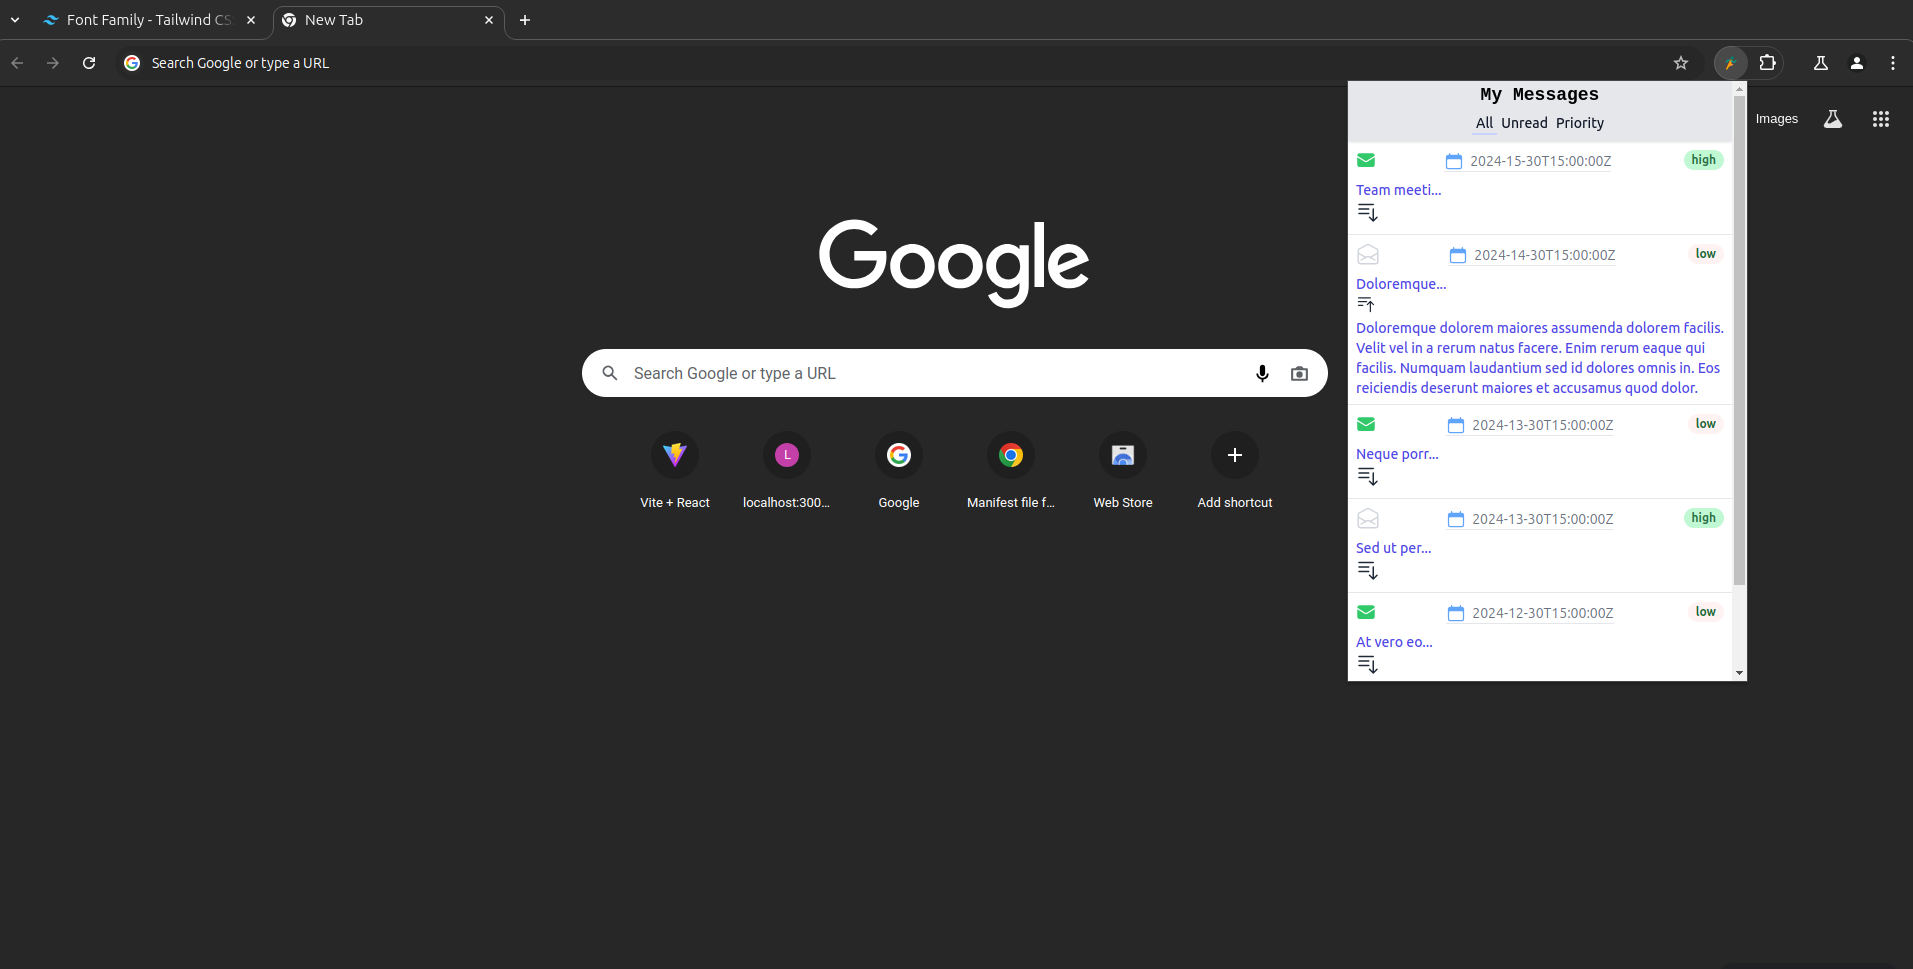
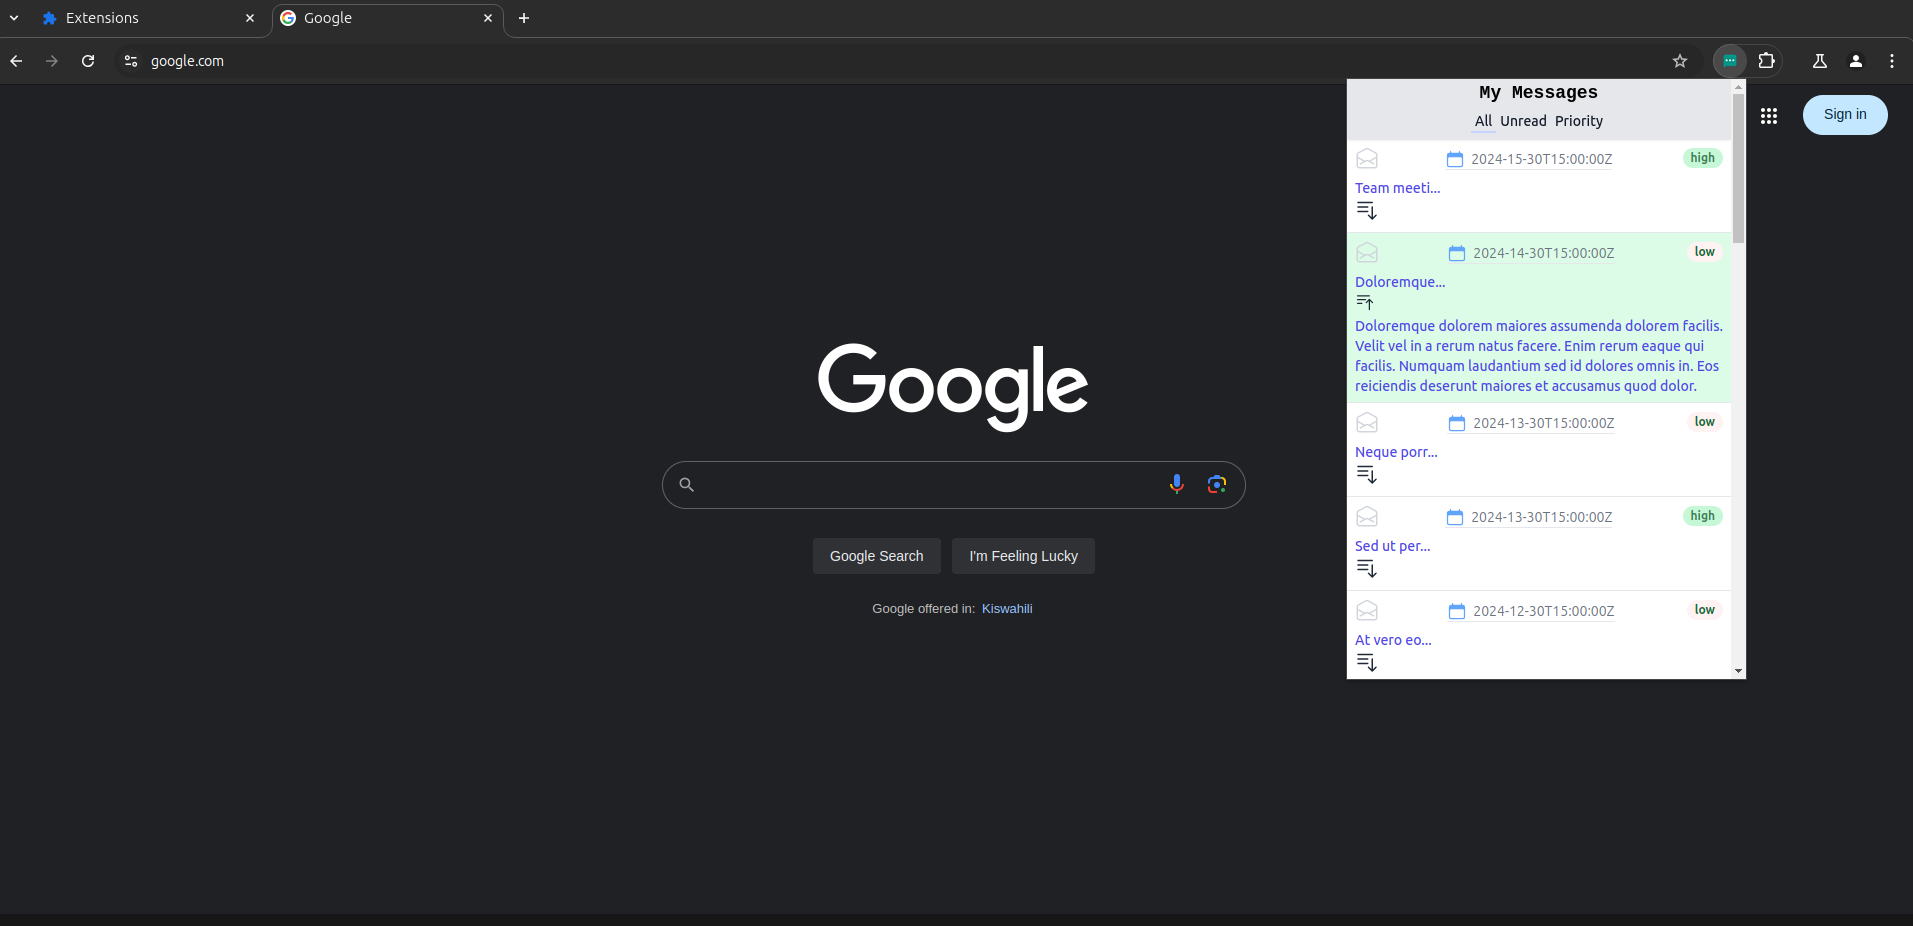
update readme screenshots with functionality

diff --git a/src/App.jsx b/src/App.jsx
@@ -6,6 +6,11 @@ import Navbar from './components/Navbar'
 import { messageReducer } from './utils/Reducer';
 import Loading from './components/Loading';
 
+let apiData 
+chrome.storage.local.get("apiData", (result) => {
+  apiData = (result.apiData);  // Chrome storage data
+}); 
+
 function App() {
   chrome.action.setBadgeText({ text: '' });
   const [messageState, messageDispatch] = useReducer(messageReducer, {
@@ -17,7 +22,7 @@ function App() {
       <div className='max-w-sm min-w-96'>
         <Navbar messageDispatch={messageDispatch} messageState={messageState} />
         <Suspense fallback={<Loading />}>
-          <List messageState={messageState} />
+          <List messageState={messageState} apiData={apiData} />
         </Suspense>
       </div>  
     </>

diff --git a/src/components/List.jsx b/src/components/List.jsx
@@ -2,8 +2,9 @@ import { memo, useState, useEffect, useMemo } from 'react'
 import Error from './Error'
 import Message from './Message'
 
-const List = memo(function List({messageState}) {
-  const [messages, setMessages] = useState([])
+
+const List = memo(function List({apiData,messageState}) {
+  const [messages, setMessages] = useState(apiData)
   const [errors, setErrors] = useState([])
 
   useEffect(() => {

diff --git a/src/components/Message.jsx b/src/components/Message.jsx
@@ -18,7 +18,7 @@ const Message = memo(function Message({message,onUpdateMessage}) {
         {({ open }) => (
           <>
           <dt>
-            <div className="block hover:bg-gray-50">
+            <div className="block hover:bg-green-100">
               <div className="px-2 py-1.5 sm:px-2">
                 <div className="flex items-center justify-between">
                   <div className="sm:flex">

diff --git a/README.md b/README.md
@@ -48,6 +48,9 @@
 #### High priority
 ![](public/images/img4.png)
 
+#### Notifications badge
+![](public/images/img5.png)
+
 
 #### npm test or yarn test
 Runs the test watcher in an interactive mode.
